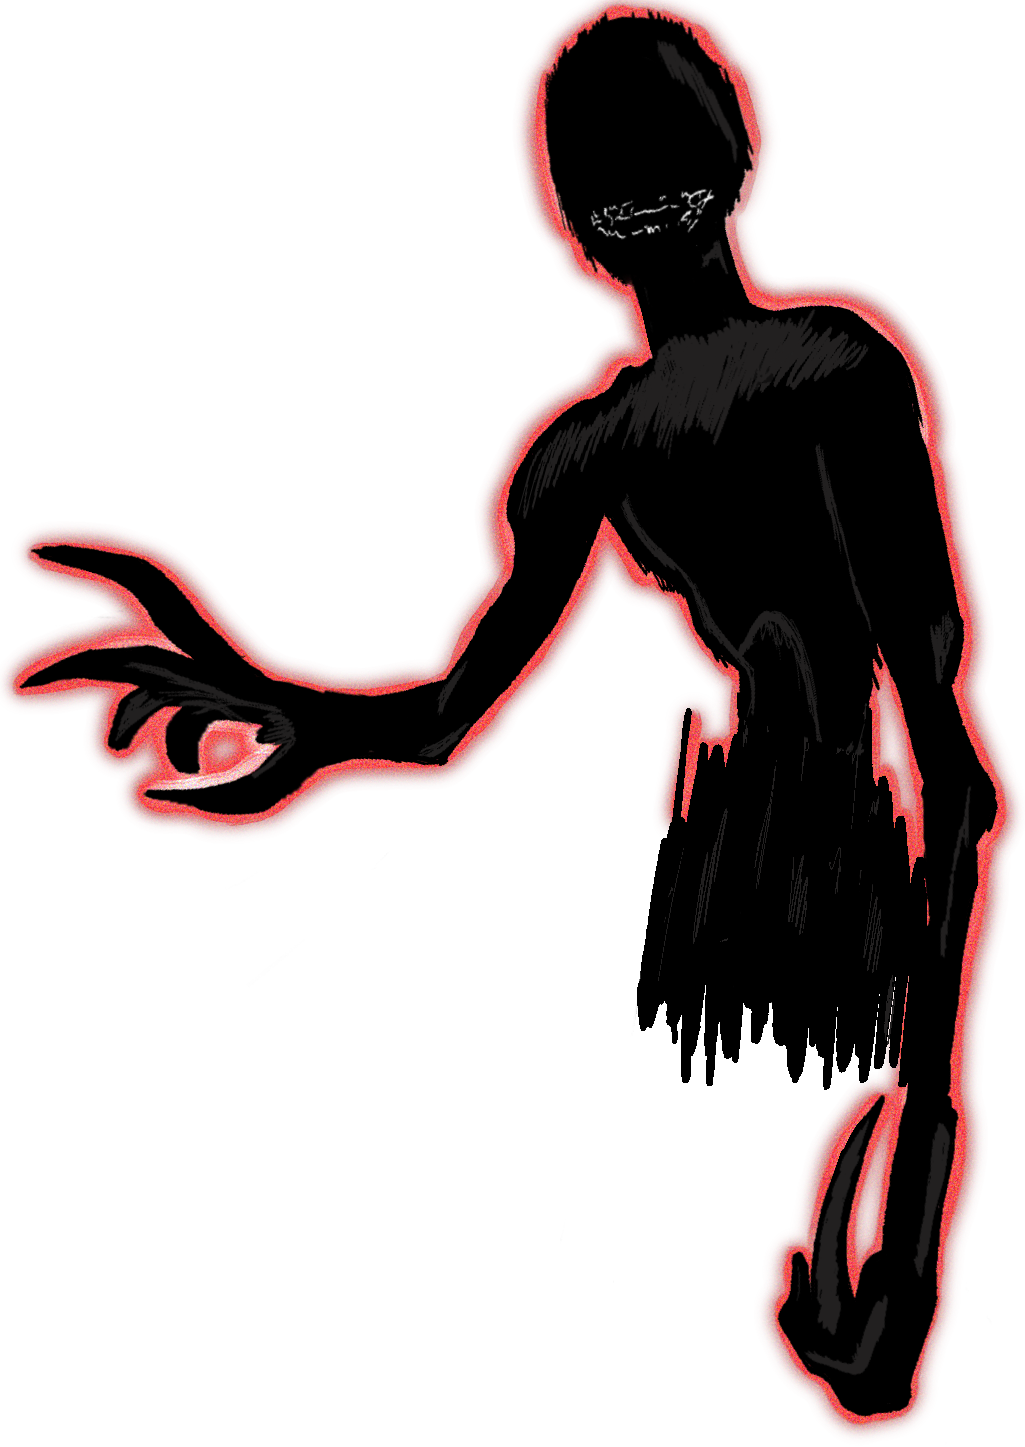
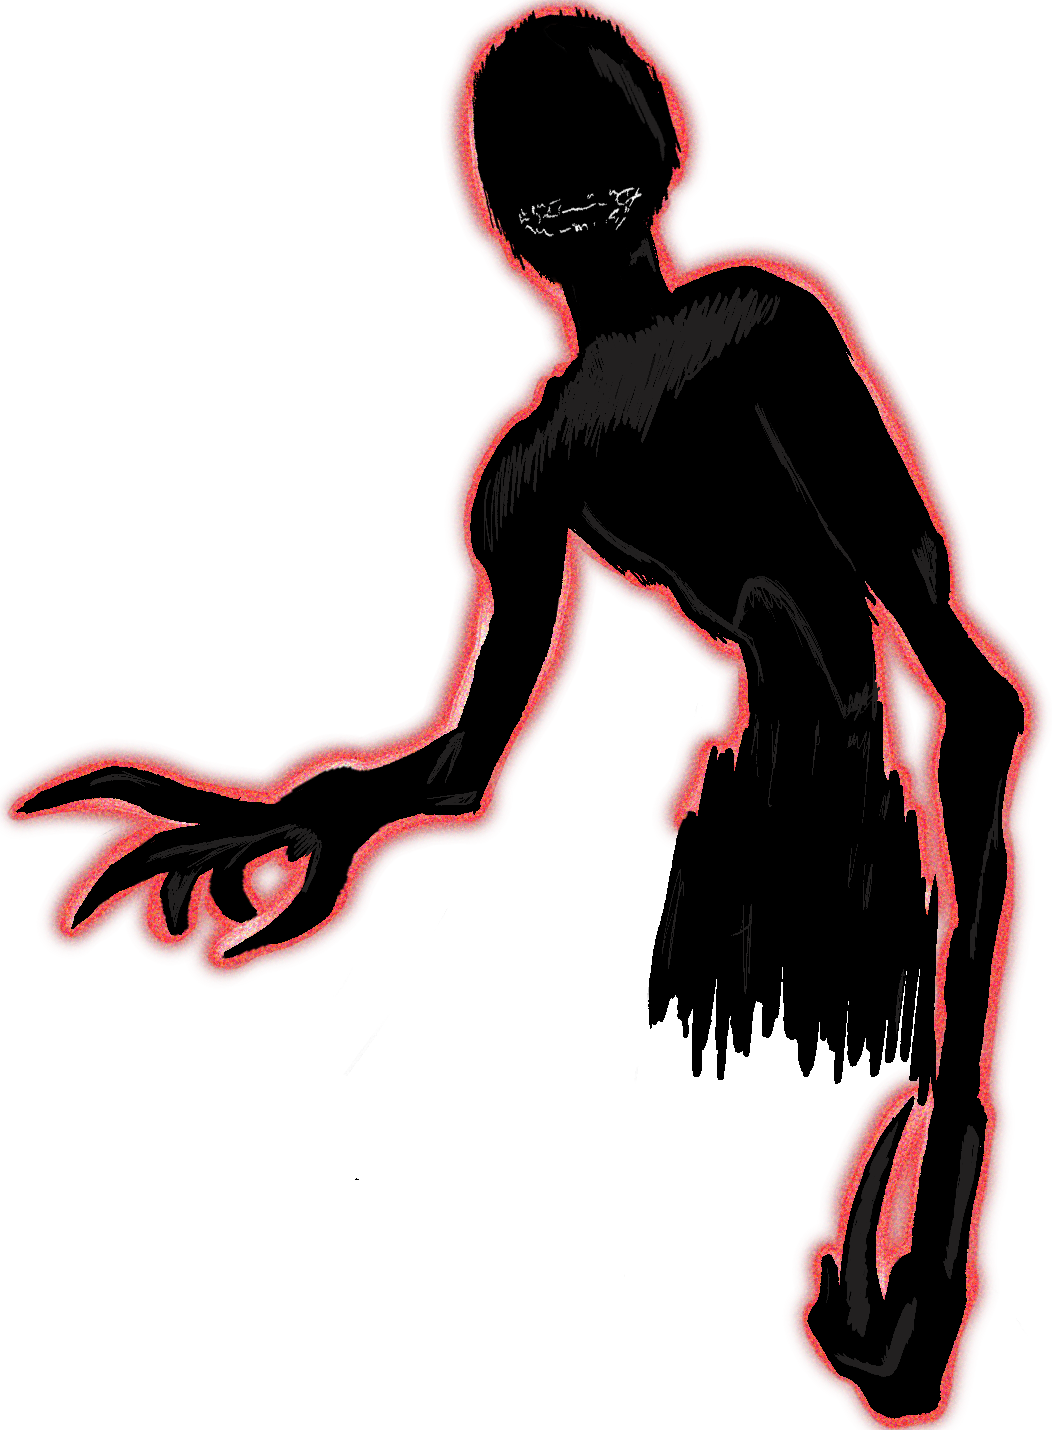
boss shield animation

diff --git a/EarlyBirdGetsDaWorm/Boss.cpp b/EarlyBirdGetsDaWorm/Boss.cpp
@@ -2,6 +2,7 @@
 
 // --- Boss Textures ---
 static AEGfxTexture* bossTex[3]          = { nullptr, nullptr, nullptr };
+static AEGfxTexture* bossShieldTex[3]    = { nullptr, nullptr, nullptr };
 static AEGfxTexture* bossBulletFrames[2] = { nullptr, nullptr };
 
 // --- Boss Animation Variables ---
@@ -9,6 +10,7 @@ static int   currentBossFrame  = 0;
 static int   bossAnimDir       = 1;   // +1 = forward, -1 = reverse (ping-pong)
 static float bossAnimTimer     = 0.0f;
 const  float BOSS_ANIM_SPEED   = 0.35f;
+
 
 // --- Bullet Animation Variables ---
 static int   currentBulletFrame = 0;
@@ -24,6 +26,9 @@ void Boss_Load()
     bossTex[0] = LoadTextureChecked(Assets::Boss_Fight::Boss1);
     bossTex[1] = LoadTextureChecked(Assets::Boss_Fight::Boss2);
     bossTex[2] = LoadTextureChecked(Assets::Boss_Fight::Boss3);
+    bossShieldTex[0] = LoadTextureChecked(Assets::Boss_Fight::Shield1);
+    bossShieldTex[1] = LoadTextureChecked(Assets::Boss_Fight::Shield2);
+    bossShieldTex[2] = LoadTextureChecked(Assets::Boss_Fight::Shield3);
     bossBulletFrames[0] = LoadTextureChecked(Assets::Boss_Fight::Bullet1);
     bossBulletFrames[1] = LoadTextureChecked(Assets::Boss_Fight::Bullet2);
 }
@@ -52,6 +57,7 @@ void Boss_Initialize(Boss& boss)
     currentBossFrame   = 0;
     bossAnimDir        = 1;
     bossAnimTimer      = 0.0f;
+
     currentBulletFrame = 0;
     bulletAnimTimer    = 0.0f;
 
@@ -221,19 +227,13 @@ void Boss_Draw(Boss& boss, AEGfxVertexList* mesh)
 {
     if (!boss.active) return;
 
-    // --- DRAW DEFENSE SHIELD ---
-    if (boss.shieldActive) {
-        AEGfxSetRenderMode(AE_GFX_RM_COLOR);
-        AEGfxSetBlendMode(AE_GFX_BM_BLEND);
-        AEGfxSetTransparency(0.5f);
+    // --- DRAW BOSS (animated) — shield textures replace body textures during shield phase ---
+    AEGfxTexture* activeTex = boss.shieldActive
+        ? bossShieldTex[currentBossFrame]
+        : bossTex[currentBossFrame];
 
-        DrawSquareMesh(mesh, boss.x, boss.y, boss.w + 60.0f, boss.h + 60.0f, 0xFF0088FF);
-        AEGfxSetTransparency(1.0f);
-    }
-
-    // --- DRAW BOSS (animated) ---
-    if (bossTex[currentBossFrame]) {
-        DrawTextureMesh(mesh, bossTex[currentBossFrame], boss.x, boss.y, boss.w, boss.h, 1.0f);
+    if (activeTex) {
+        DrawTextureMesh(mesh, activeTex, boss.x, boss.y, boss.w, boss.h, 1.0f);
     }
     else {
         AEGfxSetRenderMode(AE_GFX_RM_COLOR);
@@ -322,8 +322,10 @@ bool Boss_CheckCollision(Boss& boss, float objX, float objY, float objW, float o
 
 void Boss_Unload()
 {
-    for (int i = 0; i < 3; i++)
+    for (int i = 0; i < 3; i++) {
         UnloadTextureSafe(bossTex[i]);
+        UnloadTextureSafe(bossShieldTex[i]);
+    }
     UnloadTextureSafe(bossBulletFrames[0]);
     UnloadTextureSafe(bossBulletFrames[1]);
 }

diff --git a/EarlyBirdGetsDaWorm/assets_catalog.hpp b/EarlyBirdGetsDaWorm/assets_catalog.hpp
@@ -59,6 +59,9 @@ namespace Assets
         constexpr const char* Boss1 = "Assets/Boss/boss1.png";
         constexpr const char* Boss2 = "Assets/Boss/boss2.png";
         constexpr const char* Boss3 = "Assets/Boss/boss3.png";
+        constexpr const char* Shield1 = "Assets/Boss/boss_shield1.png";
+        constexpr const char* Shield2 = "Assets/Boss/boss_shield2.png";
+        constexpr const char* Shield3 = "Assets/Boss/boss_shield3.png";
         constexpr const char* Bullet1 = "Assets/Boss/boss_bullet.png";
         constexpr const char* Bullet2 = "Assets/Boss/boss_bullet1.png";
         constexpr const char* PlayerShooting1 = "Assets/Player/player_shooting_1.png";
